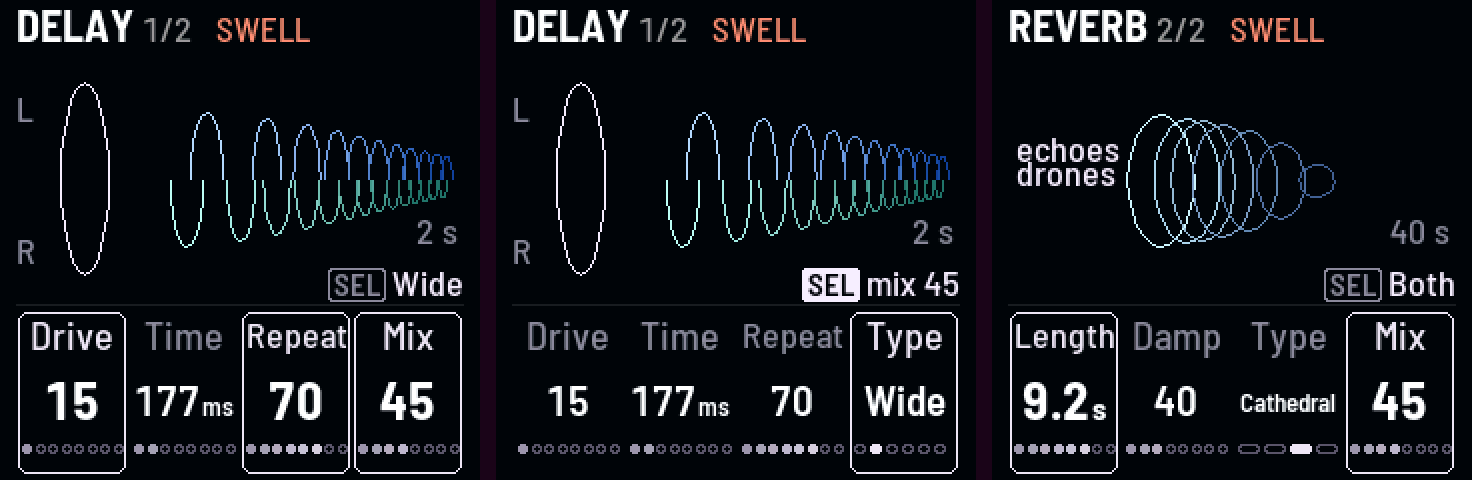
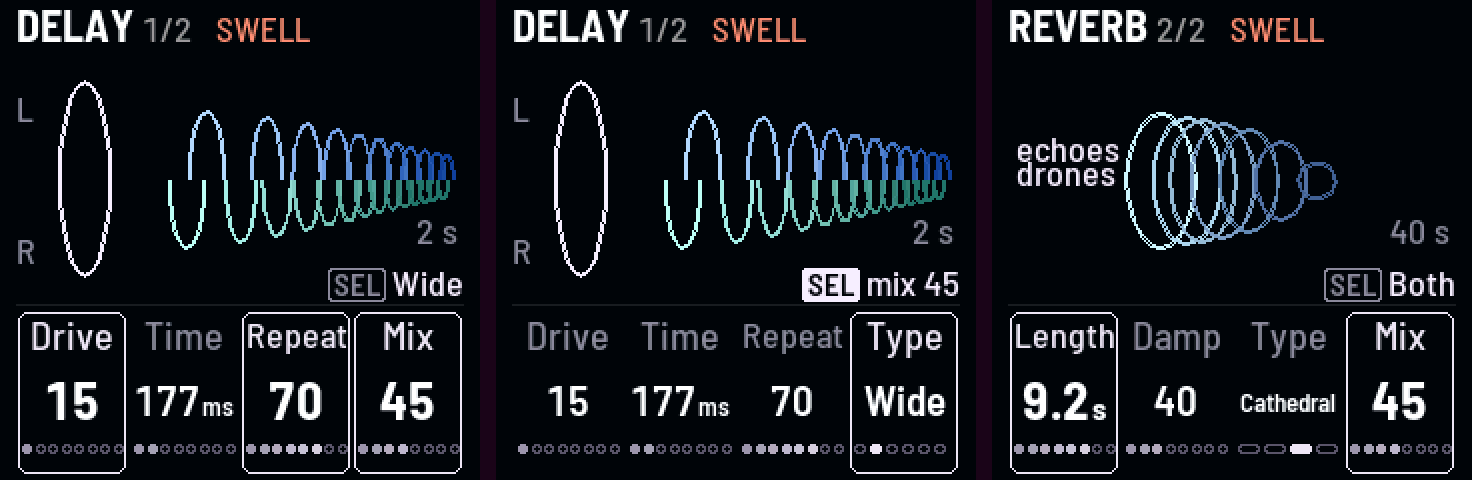
Delay and Reverb: the rings 2 px, as every page (Evan, 2026-11-07: they were 1 px); Drive thickens the Delay's from there

diff --git a/firmware/src/app/look.c b/firmware/src/app/look.c
@@ -1513,7 +1513,8 @@ static void lk_pic_delay(void)
                                                           : 70.0f * fm_exp2f((float)proj.par[P_DLY_TIME] * 0.026845f);
     const float fb = fm_minf((float)proj.par[P_DLY_REPEATS] * 0.0115f, 1.0f), mix = (float)proj.par[P_DLY_MIX] * 0.01f;
     const float wet = mix > 0.0f ? 0.25f + 0.75f * mix : 0.0f;
-    const int w = (int)(1.0f + (float)proj.par[P_DLY_DRIVE] * 0.015f + 0.5f);   /* 1 px, 2 from Drive 34, 3 at 100 */
+    const int w = (int)(2.0f + (float)proj.par[P_DLY_DRIVE] * 0.015f + 0.5f);   /* 2 px as every page, 3 from Drive 34,
+                                                                                  * 4 at 100 (Evan, 2026-11-07) */
     const int32_t mid = 61;
     static const uint32_t C[2][2] = {{0xB4D9FFu, 0x1F6BFFu}, {0xB8FFF0u, 0x3CBFAFu}};   /* new, old: L blue, R aqua */
     int side, k;
@@ -1550,7 +1551,7 @@ static void lk_pic_delay(void)
  * every Length from 0.3 s to 40 s draws differently: a ring at 0 and then each 1.75 times later, each as tall as the
  * tail is then (its dB falling in a line to -60 at the Length), none once it has died away, the first as tall as the mix
  * (12 + 46 mix px); as wide as the room (Room narrow, Cathedral wide); new ones pale, older ones the FX blue, drained
- * toward gray by Damp. Inf: all one height, "freeze" in the header. At the left what goes in (Into), lit when the
+ * toward gray by Damp; 2 px, as every page (Evan, 2026-11-07). Inf: all one height, "freeze" in the header. At the left what goes in (Into), lit when the
  * reverb hears it (the spec, 2026-10-31, round 2; the board, FX 268:2) */
 static void lk_pic_reverb(void)
 {
@@ -1569,7 +1570,7 @@ static void lk_pic_reverb(void)
         if (x > 222.0f || ry < 2.0f)           /* off the axis, or died away */
             break;
         c = lk_mix888(lk_mix888(0xC9F6FFu, 0x507FCEu, fm_minf(age, 1.0f)), 0x3A3646u, fm_minf(damp * age, 0.85f));
-        lk_ring((int32_t)(x + 0.5f), mid, 6.0f + WIDE[ty] * ry, ry, 0, 1, mix > 0.0f ? lk_mix(0x07060Bu, c, 1.0f)
+        lk_ring((int32_t)(x + 0.5f), mid, 6.0f + WIDE[ty] * ry, ry, 0, 2, mix > 0.0f ? lk_mix(0x07060Bu, c, 1.0f)
                                                                                     : LK_UNLIT);
     }
     cv_text(12, 38, &LK_F_SMALL, "echoes", mix > 0.0f && into != 2 ? LK_INK : LK_LABEL);   /* Into: Both, Echoes, */

diff --git a/docs/decisions.md b/docs/decisions.md
@@ -591,6 +591,8 @@ at the end. The current state is in the [README](../README.md) and the code.
   the fan as before, meeting at the dot. The picture two bars across at every speed (four breaths, 54 px each; was
   one bar): the rhythm reads as a rhythm; the dot crosses both, the screen counting which bar it's in; the fan half
   as wide a breath, so its widest spread stays.
+- 2026-11-07: Delay's and Reverb's rings 2 px, as every page (were 1 px); Drive thickens the Delay's from there (3 px
+  from Drive 34, 4 at 100).
 - 2026-11-07: LFO sends: the LFOs above the routes, I over II (on one row the longest names ran into the rate), their
   waves in one column, 13 px tall and 54 long (were 9 and 24); the rate right of LFO I, the lock right of LFO II;
   locked with the Swell stopped, "on Swell" dimmed (was "waits Swell", too wide beside the waves); "mvmt 0%" in the
